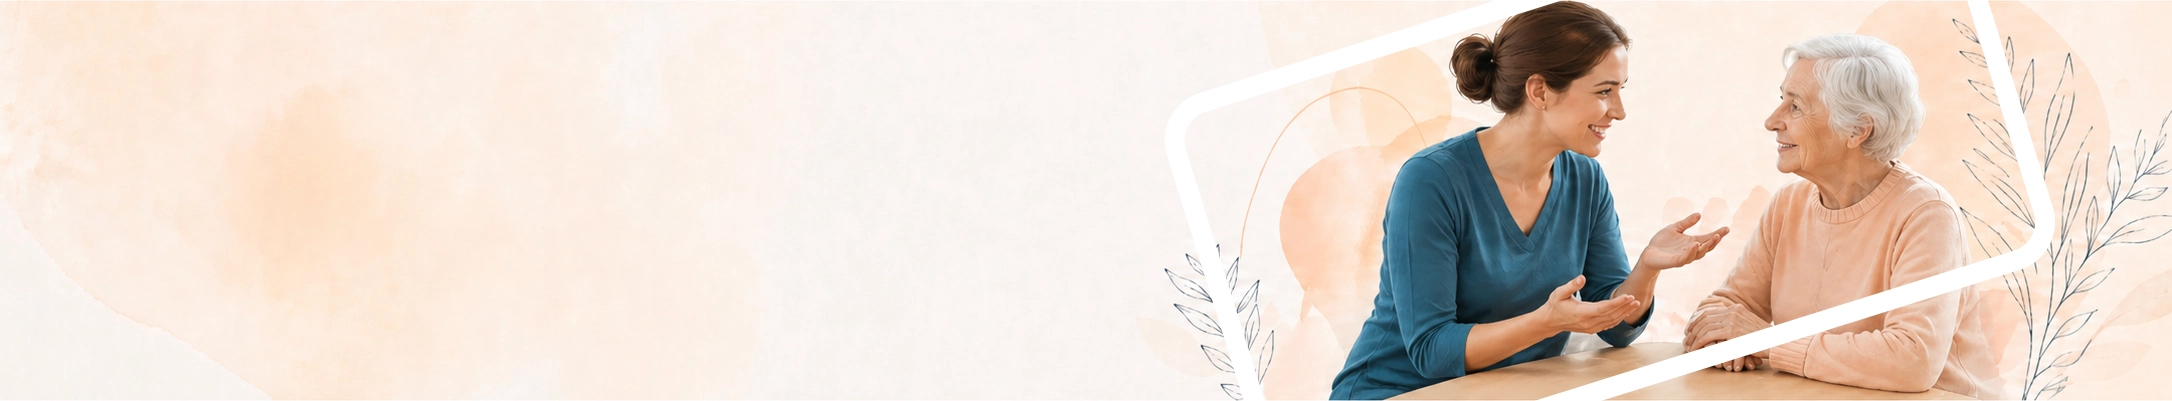
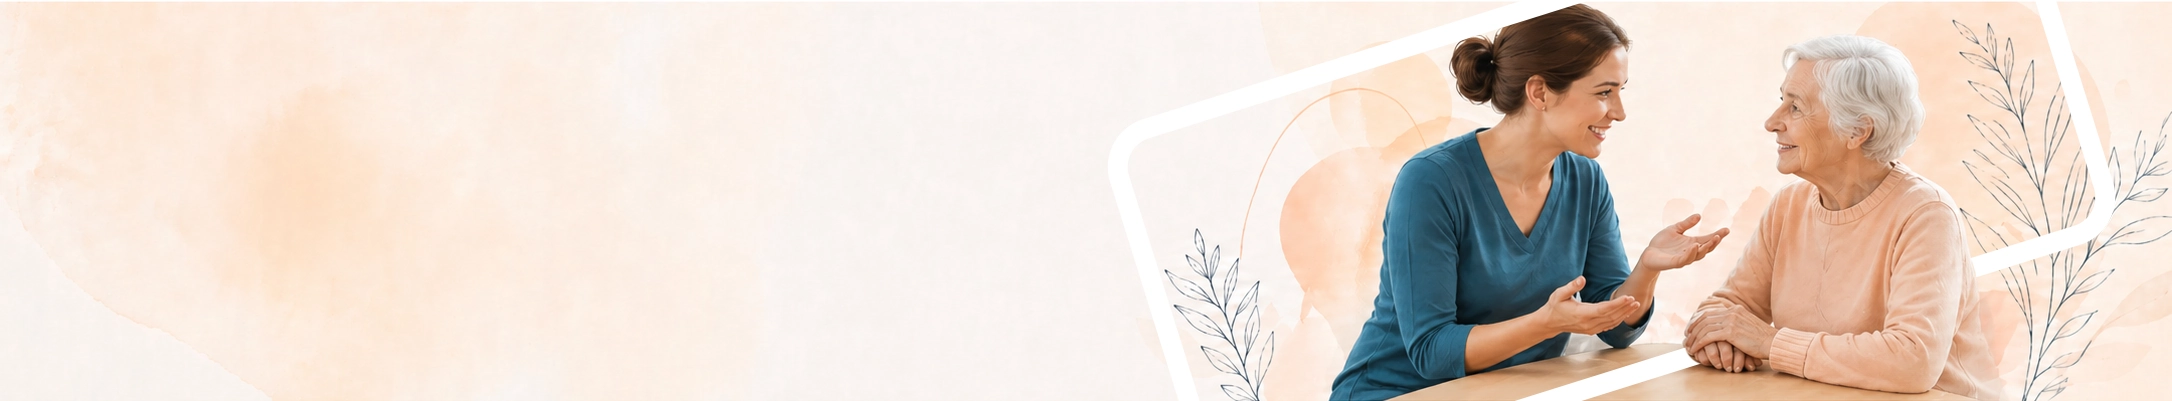
Ratgeber-Hub: Hintergrundbild mit object-contain voll sichtbar; aktualisiertes Hintergrundbild
Made-with: Cursor

diff --git a/components/ratgeber/RatgeberHub.tsx b/components/ratgeber/RatgeberHub.tsx
@@ -188,12 +188,12 @@ export function RatgeberHub() {
     <div className="min-w-0">
       {/* Hero: ein Block – Bild vollflächig, Text & Suche wie zuvor darüber */}
       <section className="relative w-full overflow-hidden" aria-labelledby="ratgeber-hub-heading">
-        <div className="relative min-h-[13rem] w-full sm:min-h-[15.5rem] md:min-h-[18rem] lg:min-h-[19.5rem]">
+        <div className="relative min-h-[13rem] w-full bg-[#FFFCFA] sm:min-h-[15.5rem] md:min-h-[18rem] lg:min-h-[19.5rem]">
           <Image
             src="/images/ratgeber_hintergrund.webp"
             alt=""
             fill
-            className="object-cover object-[83%_center] md:object-center"
+            className="object-contain object-center"
             sizes="100vw"
             priority
           />
